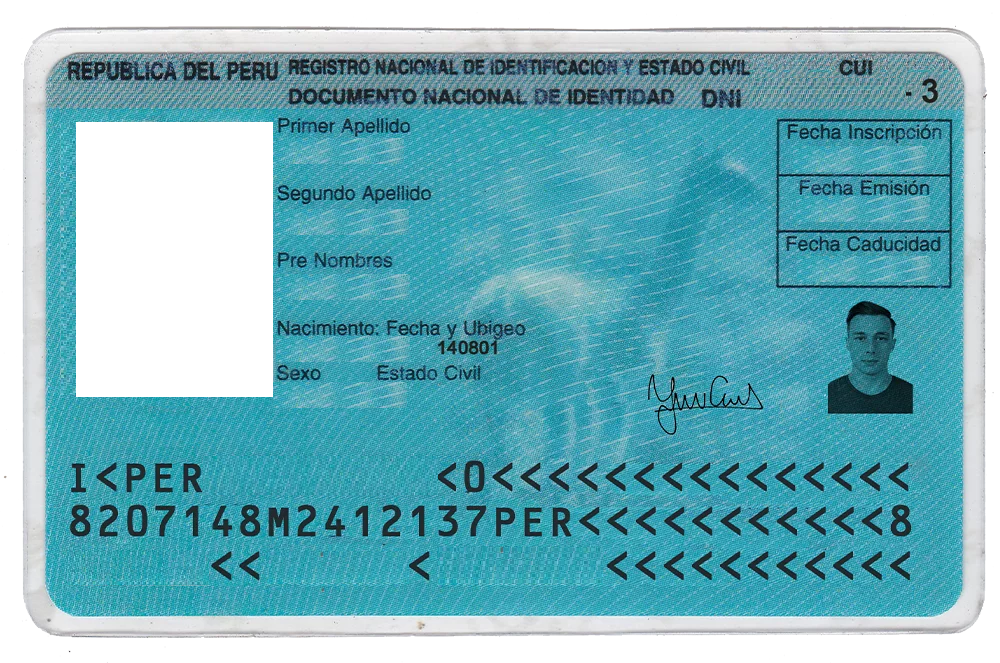
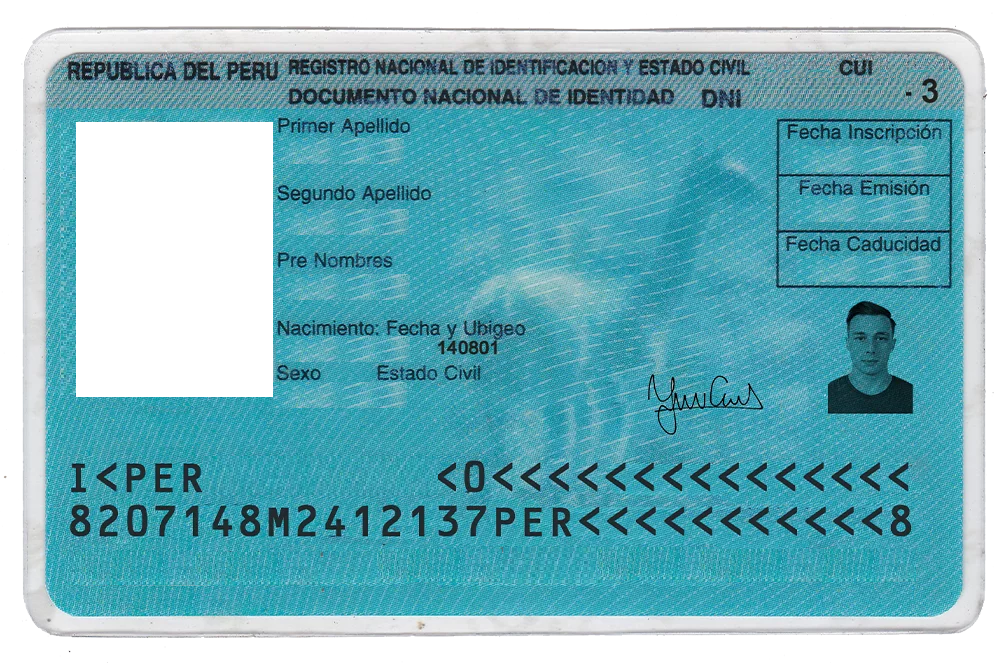
mejora de dni

Changed region(s): [[0.589, 0.8145, 0.93, 0.8748], [0.186, 0.8145, 0.341, 0.905], [0.372, 0.8145, 0.496, 0.8748]]

diff --git a/resources/views/SolicitudDNI/dniPdf.blade.php b/resources/views/SolicitudDNI/dniPdf.blade.php
@@ -47,34 +47,68 @@
             position: absolute;
             top: 52px;
             left: 140px;
+            text-transform: uppercase;
+            font-size: 12px;
+        }
+        .anv_Apellido_Paterno_foto{
+            position: absolute;
+            top: 178px;
+            left: 42px;
+            color: red;
+            text-transform: uppercase;
+            font-size: 10px;
         }
         .anv_Apellido_Materno{
             position: absolute;
-            top: 82px;
+            top: 87px;
             left: 140px;
+            text-transform: uppercase;
+            font-size: 12px;
         }
         .anv_Nombres{
             position: absolute;
-            top: 112px;
+            top: 119px;
             left: 140px;
+            text-transform: uppercase;
+            font-size: 12px;
         }
-        .anv_DNI_horizontal{
+        .anv_fecha_nacimiento{
+            position: absolute;
+            top: 152px;
+            left: 140px;
+            font-size: 11px;
+        }
+        .anv_DNI_head{
             position: absolute;
             top: 20px;
             left: 380px;
             color: red;
         }
-        .anv_DNI_vertical{
+        .anv_DNI_foto{
             position: absolute;
-            top: 85px;
+            top: 95px;
             transform: rotate(90deg);
-            left: 7px;
+            left:0px;
             color: red;
+            letter-spacing: 2px;
         }
         .anv_DNI_detalle{
             position: absolute;
-            top: 200px;
-            left: 100px;
+            top: 203px;
+            left: 110px;
+            font-weight: bold;
+            font-size: 20px;
+            letter-spacing: 2px;
+            text-transform: uppercase;
+        }
+        .anv_linea_detalle{
+            position: absolute;
+            top: 250px;
+            left: 38px;
+            text-transform: uppercase;
+            font-weight: bold;
+            letter-spacing: 1px;
+            font-size: 15px;
         }
     </style>
 </head>
@@ -84,13 +118,16 @@
         <div class="anverso">
             {{-- <img src="images/SolicitudDNI/dni-anverso.png" alt=""> --}}
             <img class="foto" src="{{ public_path($solicitud->file_foto) }}" alt="" width="98px" height="135px">
-            <p class="anv_Nombres">{{$solicitud->Persona->Nombres}}</p>
             <p class="anv_Apellido_Paterno">{{$solicitud->Persona->Apellido_Paterno}}</p>
             <p class="anv_Apellido_Paterno_foto">{{$solicitud->Persona->Apellido_Paterno}}</p>
             <p class="anv_Apellido_Materno">{{$solicitud->Persona->Apellido_Materno}}</p>
-            <p class="anv_DNI_horizontal">{{$solicitud->Persona->DNI}}</p>
-            <p class="anv_DNI_vertical">{{$solicitud->Persona->DNI}}</p>
+            <p class="anv_Nombres">{{$solicitud->Persona->Nombres}}</p>
+            <p class="anv_fecha_nacimiento">{{$solicitud->Persona->fecha_nacimiento}}</p>
+            <p class="anv_DNI_head">{{$solicitud->Persona->DNI}}</p>
+            <p class="anv_DNI_foto">{{$solicitud->Persona->DNI}}</p>
             <p class="anv_DNI_detalle">{{$solicitud->Persona->DNI}}</p>
+            <p class="anv_linea_detalle">{{$linea_detalle}}</p>
+          
         </div>
         <div class="reverso">
             {{-- <img src="images/SolicitudDNI/dni-reverso.png" alt=""> --}}

diff --git a/app/Http/Controllers/SolicitudDNIController.php b/app/Http/Controllers/SolicitudDNIController.php
@@ -211,8 +211,20 @@ class SolicitudDNIController extends Controller
 
     public function generaPdf($idSolicitud){
         $solicitud=SolicitudDNI::find($idSolicitud);
+        $primer_apellido=$solicitud->Persona->Apellido_Paterno;
+        $nombres=$solicitud->Persona->Nombres;
+        $pos_2do=strpos($nombres," ");
+        $primer_nombre=substr($nombres,0,$pos_2do-1);
+        $segundo_nombre=substr($nombres,$pos_2do);
+        $linea_detalle=$primer_apellido."<<".$primer_nombre."<".$segundo_nombre;
+
+        for($i=1;$i<=30;$i++){
+            if(strlen($linea_detalle)<$i){
+                $linea_detalle= $linea_detalle."<";
+            }
+        }
         $fecha = date('Y-m-d');
-        $data = compact('solicitud','fecha');
+        $data = compact('solicitud','fecha','linea_detalle');
         $pdf = Pdf::loadView('SolicitudDNI.dniPdf', $data);
         
         //return view('SolicitudDNI/dniPdf',compact('solicitud'));

diff --git a/app/Http/Controllers/SolicitudController.php b/app/Http/Controllers/SolicitudController.php
@@ -185,7 +185,6 @@ class SolicitudController extends Controller
         $data = compact('solicitud','fecha');
         $pdf = Pdf::loadView('Solicitud.ComprobantePago', $data);
 
-
         return $pdf->download('ComprobanteDePagoGenerada.pdf');
 
     }
